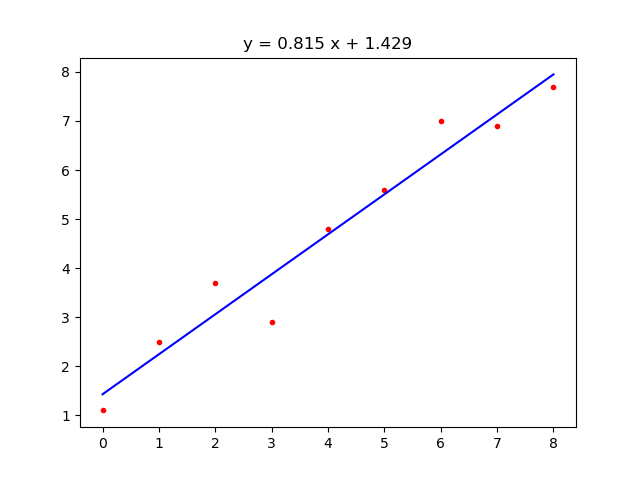
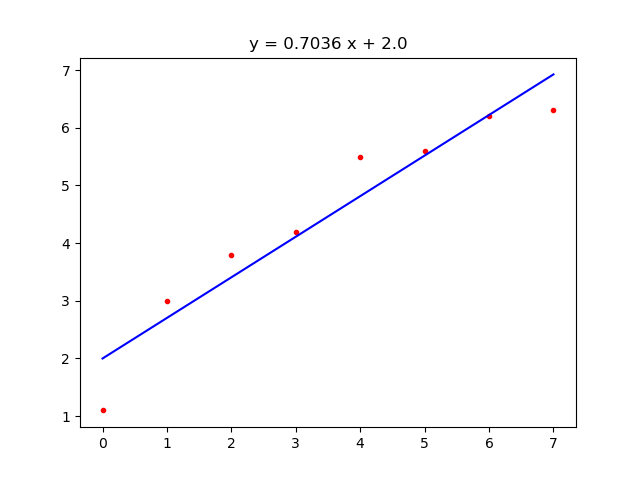
Playing with the GET request
No heavy POST data needs to be made.
With a simple GET request is enough.

diff --git a/Backend/templates/data.html b/Backend/templates/data.html
@@ -1,0 +1,19 @@
+<!DOCTYPE html>
+<html lang="en">
+  <head>
+    <meta charset="UTF-8">
+    <meta name="viewport" content="width=device-width, initial-scale=1.0">
+    <meta http-equiv="X-UA-Compatible" content="ie=edge">
+    <title>HTML Python Flask Example</title>
+  </head>
+  <body>
+	<h1>Enter the data to do the regression</h1>
+    <form action="/model">
+        <label for="dataX">Enter the data in X:</label><br>
+        <input type="text" id="dataX" name="dataX"><br>
+        <label for="dataY">Enter the data in Y:</label><br>
+        <input type="text" id="dataY" name="dataY"><br>
+        <input type="submit" value="Submit">
+    </form>
+  </body>
+</html>

diff --git a/Backend/mar_server.py b/Backend/mar_server.py
@@ -1,10 +1,8 @@
-from flask import Flask
 import os
-from flask import send_from_directory
-from flask import render_template
 import numpy as np
 from sklearn import linear_model
 from matplotlib import pyplot as plt
+from flask import Flask, send_from_directory, render_template, request
 
 app = Flask(__name__)
 
@@ -39,5 +37,39 @@ def compute(data):
     plt.savefig("static/barras.png")
     plt.cla()
 
-    # Render page
-    return render_template('view.html', resultado=sum(temp2))
+@app.route("/data")
+def data():
+        return render_template('data.html')
+
+@app.route("/model", methods=["GET"])
+def model():
+    print("Let's start ...")
+    if request.method == "GET":
+        print("I am a GET request!")
+        print(request.args)
+        tempX = request.args.get("dataX").split(",")
+        tempX = [float(i) for i in tempX]
+        tempY = request.args.get("dataY").split(",")
+        tempY = [float(i) for i in tempY]
+        x = np.array(list(range(len(tempX))))
+        X = np.expand_dims(x, 1)
+        y = np.array(tempY)
+
+        # Linear model
+        reg = linear_model.LinearRegression()
+        reg.fit(X, y)
+        m = reg.coef_[0]
+        b = reg.intercept_
+        yn = [m*x + b for x in X]
+
+        # Plot the data
+        plt.title(f"y = {m:.4} x + {b:.4}")
+        plt.plot(x, y, "r.")
+        plt.plot(x, yn, "b-")
+        plt.savefig("static/barras.png")
+        plt.cla()
+
+        # Render page
+        return render_template('view.html', resultado=sum(tempX))
+    else:
+        return "<h1>Wrong method!</h1>"
